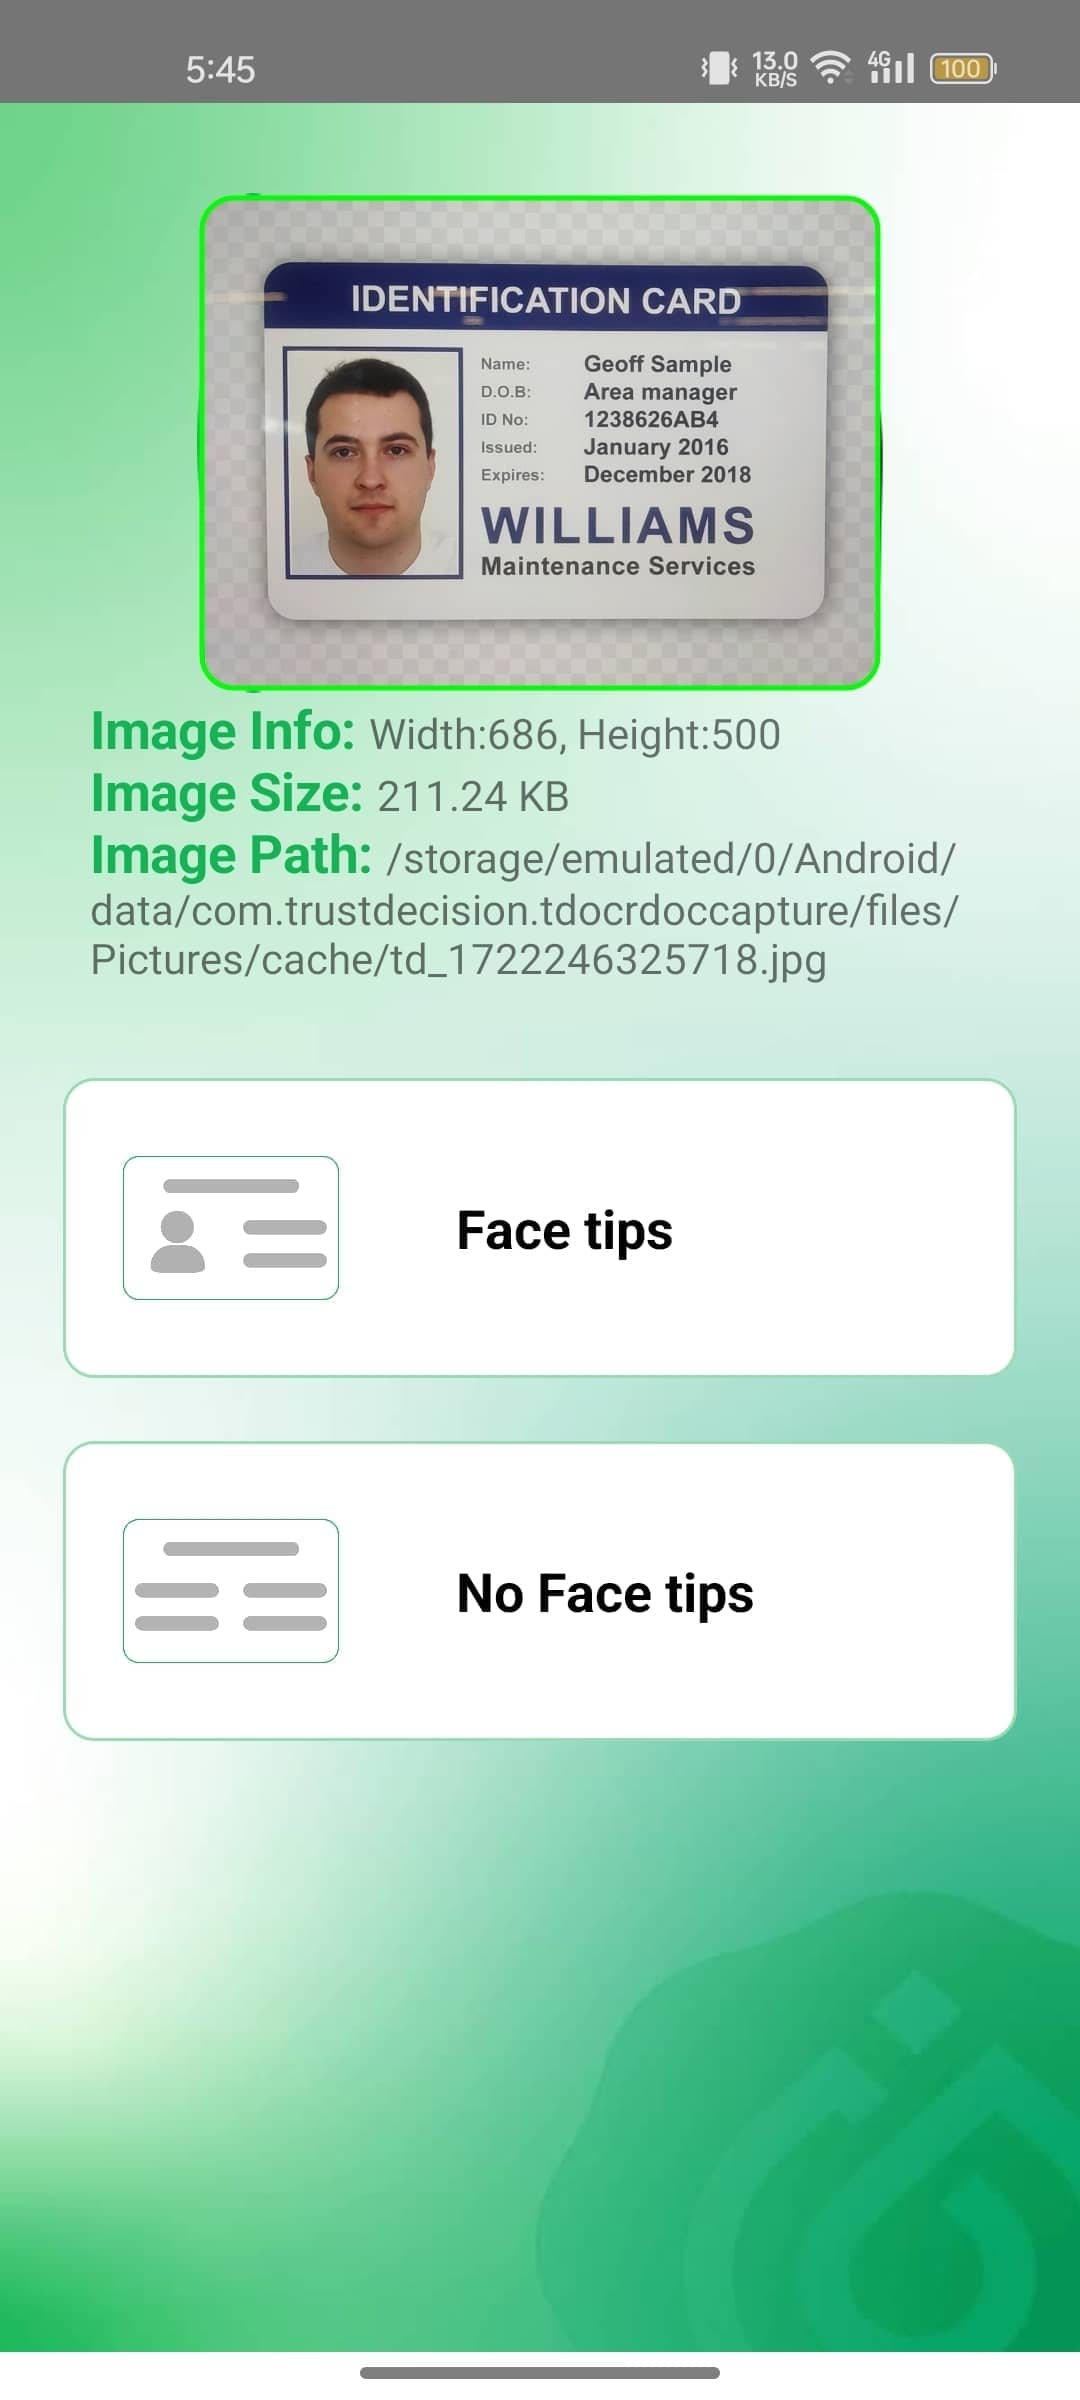
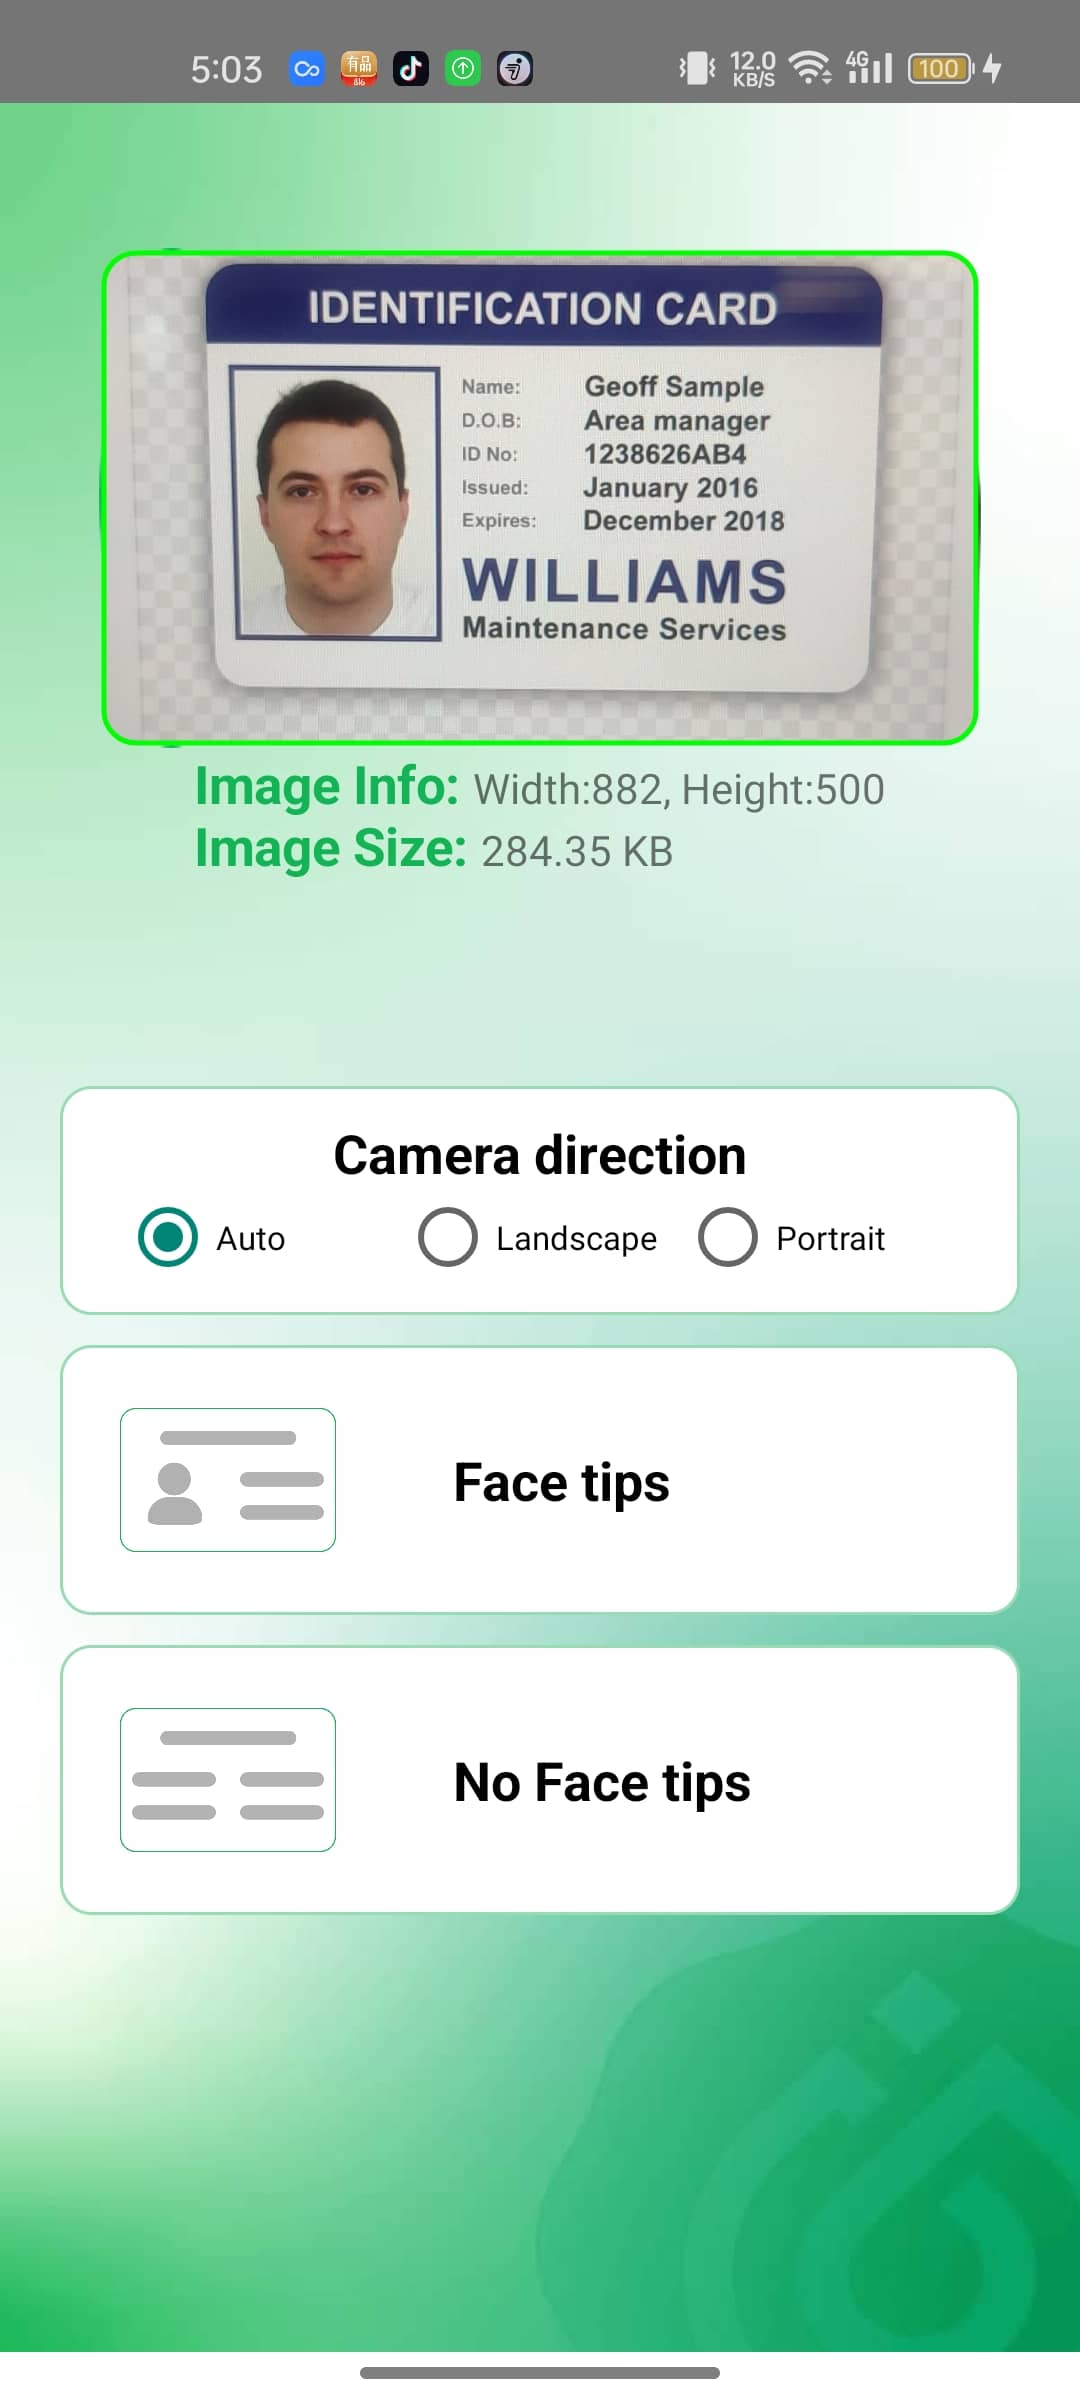
修改主页字体大小

Changed region(s): [[0.0611, 0.0, 0.9167, 0.4062], [0.0306, 0.4375, 0.9472, 0.8125], [0.1833, 0.0, 0.2444, 0.0312]]

diff --git a/app/src/main/java/com/trustdecision/tdocrdoccapturedemo/MainActivity.java b/app/src/main/java/com/trustdecision/tdocrdoccapturedemo/MainActivity.java
@@ -62,8 +62,6 @@ public class MainActivity extends AppCompatActivity {
                         .openCamera(TDIDCardCamera.TYPE_IDCARD_NO_FACE_TIPS, mCameraDirection);
             }
         });
-
-//        faceTips.performClick();
     }
 
     @Override

diff --git a/README.md b/README.md
@@ -101,7 +101,7 @@ private void confirm(Bitmap bitmap) {
             ...
         }
     }, true);// true: 拉伸拓展图片, false 不拉伸拓展图片
-...
+    ...
 }
 ```
 
